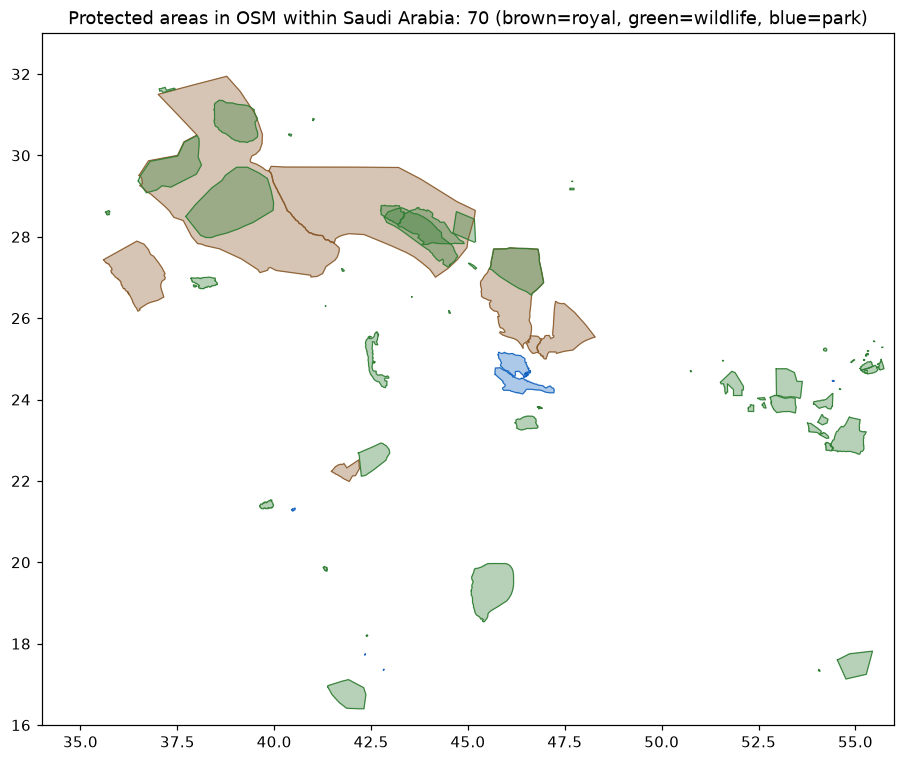
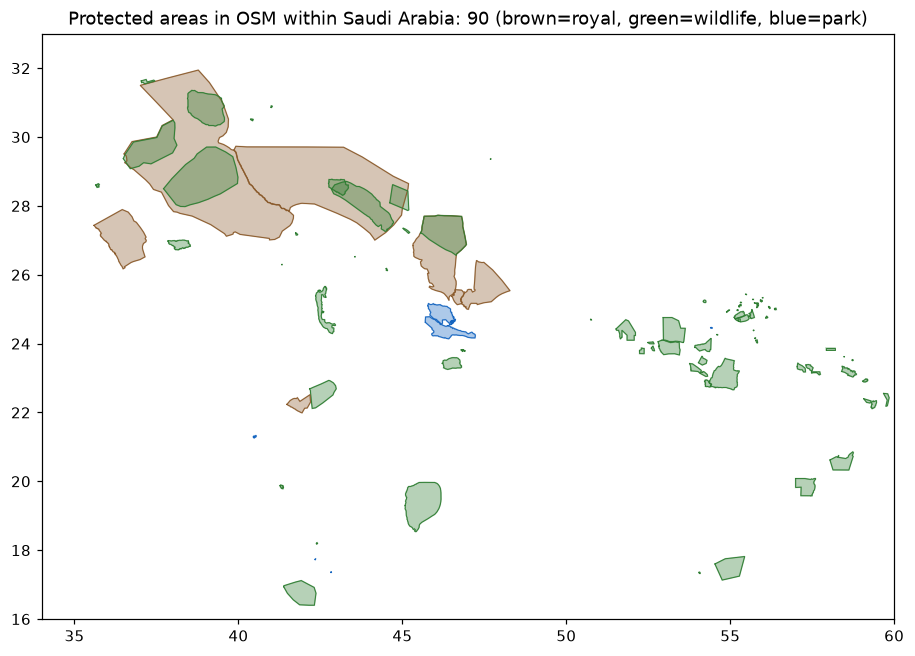
تحديث طبقة المحميات

diff --git a/ci-shots/reserves/summary.md b/ci-shots/reserves/summary.md
@@ -1,74 +1,94 @@
-# المحميات في OpenStreetMap داخل السعودية (70)
+# المحميات في OpenStreetMap داخل السعودية (90)
 
-| # | الاسم | النوع | المساحة كم² | الجهة | الموقع | OSM |
-|---|---|---|---|---|---|---|
-| 1 | محمية الملك سلمان الملكية | royal | 133476 |  | https://ksrnr.gov.sa | 1073421633 |
-| 2 | محمية الامام تركي بن عبدالله الملكية | royal | 93537 |  | https://itba.gov.sa/ | 1071799717 |
-| 3 | محمية الملك عبدالعزيز الملكية | royal | 28172 |  | https://www.karnr.gov.sa | 18421881 |
-| 4 | محمية الخنفه | wildlife | 27281 |  |  | 736530697 |
-| 5 | محمية الأمير محمد بن سلمان الملكية | royal | 16874 |  |  | 1074580774 |
-| 6 | محمية الطبيق | wildlife | 12609 |  |  | 736297710 |
-| 7 | محمية عروق بني معارض | wildlife | 12495 |  |  | 1329347800 |
-| 8 | محمية الصمان | wildlife | 12428 |  |  | 18421880 |
-| 9 | محمية التيسية | wildlife | 11711 |  |  | 770617528 |
-| 10 | محمية الإمام عبدالعزيز بن محمد الملكية | royal | 11066 |  | https://iarda.gov.sa | 1071109396 |
-| 11 | محمية حرة الحرة | wildlife | 9713 |  |  | 790722524 |
-| 12 | منطقة مغلقة بسياج | wildlife | 8856 |  |  | 1430523139 |
-| 13 | محمية المها العربي الطبيعية | wildlife | 5832 | Environment Agency Abu Dhabi (EAD) |  | 222980606 |
-| 14 | محمية جزر فرسان | wildlife | 5438 |  | https://www.ncw.gov.sa/ | 1447078946 |
-| 15 | محمية جبل سمحان | wildlife | 4564 | وزارة البيئة والشؤون المناخية |  | 8322166 |
-| 16 | محمية سجا وأم الرمث | wildlife | 4335 |  |  | 736283115 |
-| 17 | محمية مروح البحرية للمحيط الحيوي | wildlife | 4326 | Environment Agency Abu Dhabi (EAD) |  | 1327190396 |
-| 18 | محمية الإمام عبدالرحمن بن فيصل | park | 4204 |  | https://www.rcrc.gov.sa/projects/imam-abdulrahman-bin-faisal-reserve/ | 1573928927 |
-| 19 | محمية الأمير سلطان | wildlife | 3286 |  |  | 18649398 |
-| 20 | محمية طويق | park | 3281 |  | https://www.rcrc.gov.sa/projects/tuwaiq-reserve/ | 21847589 |
-| 21 | محمية نفود العريق | wildlife | 2500 |  | https://swa.gov.sa/ | 792775878 |
-| 22 | محمية الحبارى الطبيعية | wildlife | 2447 | Environment Agency Abu Dhabi (EAD) |  | 229650779 |
-| 23 | محمية الامام سعود الملكية - محازة الصيد | royal | 2175 |  |  | 755570401 |
-| 24 | محمية الياسات البحرية | wildlife | 2166 | Environment Agency Abu Dhabi (EAD) |  | 1334761778 |
-| 25 | محمية الشمال للصيد المستدام | wildlife | 2103 | هيئة تطوير محمية الإمام تركي بن عبدالله الملكية |  | 1161204032 |
-| 26 | محمية الوعول | wildlife | 1632 |  |  | 734000965 |
-| 27 | محمية شرعان الطبيعية | wildlife | 1391 |  |  | 1282434494 |
-| 28 | محمية الملك خالد الملكية | royal | 1152 |  | https://iarda.gov.sa/king-khalid-reserve/ | 1071114102 |
-| 29 | محمية الغضا الطبيعية | wildlife | 1066 | Environment Agency Abu Dhabi (EAD) |  | 448955839 |
-| 30 | محمية المرموم الصحراوية | wildlife | 928 | بلدية دبي |  | 9814219 |
-| 31 | حدود الحرم المكي | wildlife | 538 |  | https://www.haj.gov.sa/MakkahAndMadinah/Makkah | 19590020 |
-| 32 | محمية الرملة الطبيعية | wildlife | 531 | Environment Agency Abu Dhabi (EAD) |  | 1334678296 |
-| 33 | محمية البدعة الطبيعية | wildlife | 409 | Environment Agency Abu Dhabi (EAD) |  | 1336870032 |
-| 34 | محمية قصر السراب الطبيعية | wildlife | 294 | Environment Agency Abu Dhabi (EAD) |  | 1323859013 |
-| 35 | محمية الضاحك الطبيعية | wildlife | 256 | Royal Society for the Conservation of Nature |  | 981642427 |
-| 36 | محمية دبي الصحراوية | wildlife | 227 | بلدية دبي |  | 377687909 |
-| 37 | محمية يو الدبسا الطبيعية | wildlife | 214 | Environment Agency Abu Dhabi (EAD) |  | 438422612 |
-| 38 | محمية الدلفاوية الطبيعية | wildlife | 181 | Environment Agency Abu Dhabi (EAD) |  | 1334678300 |
-| 39 | محمية الجندلية | wildlife | 90 |  |  | 771015578 |
-| 40 | محمية برقا الصقور الطبيعية | wildlife | 81 | Environment Agency Abu Dhabi (EAD) |  | 453396784 |
-| 41 | محمية بدع هزاع الطبيعية | wildlife | 77 | Environment Agency Abu Dhabi (EAD) |  | 453396759 |
-| 42 | محميّة جبل شدا الأعلى | wildlife | 74 |  |  | 1188439115 |
-| 43 | محمية بجدة | wildlife | 74 |  |  | 1334266051 |
-| 44 | جزيرة صير بو نعير | wildlife | 52 |  |  | 395306787 |
-| 45 | KISR study research area | wildlife | 41 |  |  | 566335925 |
-| 46 | متنزه سيسد الوطني | park | 36 |  |  | 1092825897 |
-| 47 | الحجر (مدائن صالح) | wildlife | 30 |  |  | 849621507 |
-| 48 | محمية التمريات | wildlife | 27 |  |  | 1339807956 |
-| 49 | محمية ابو نمر | wildlife | 26 |  |  | 1444111392 |
-| 50 | منتزه الزلفي الوطني | wildlife | 16 |  |  | 798162643 |
-| 51 | محمية جبل علي البحرية | wildlife | 15 |  |  | 393189119 |
-| 52 | منتزه معيلة البري | wildlife | 13 |  |  | 16569301 |
-| 53 | Wadi Dawkah Frankincense Trees | wildlife | 12 |  |  | 1099473438 |
-| 54 | محمية ند الشبا الطبيعية | wildlife | 11 |  |  | 396043975 |
-| 55 | متنزه القرم البحري الوطني | park | 10 | Environment Agency Abu Dhabi |  | 1333243555 |
-| 56 | محمية جرف ريدة | wildlife | 9 |  |  | 1447089335 |
-| 57 | مركز وادي الصفا للحياة الفطرية | wildlife | 8 |  |  | 9387926 |
-| 58 | منتزة وثيلان الوطني | wildlife | 7 |  |  | 638758453 |
-| 59 | محمية الحفظ الخاصة | wildlife | 6 |  |  | 13415452 |
-| 60 | محمية رأس الخور للحياة البرية | wildlife | 5 |  |  | 393004319 |
-| 61 | محمية الوثبة للأراضي الرطبة | wildlife | 4 |  |  | 482077299 |
-| 62 | محمية الجيبان | wildlife | 4 |  |  | 929873488 |
-| 63 | هيجة رملان | park | 3 |  |  | 1188939502 |
-| 64 | Qatar Steel Company | wildlife | 2 |  |  | 260993358 |
-| 65 | محمية سيح المصموت | wildlife | 2 |  |  | 396043976 |
-| 66 | القرم الزوراء | wildlife | 2 |  |  | 13415572 |
-| 67 | منتزة البراري /هروب | park | 2 |  |  | 16253604 |
-| 68 | محمية الجهراء الطبيعية | wildlife | 2 |  |  | 1345201569 |
-| 69 | منتزة شقرا البري | wildlife | 1 |  |  | 1449573837 |
-| 70 | المنتزه البري - السليمي | wildlife | 1 |  |  | 1572391582 |
+| # | الاسم | النوع | الدولة | المساحة كم² | الجهة | الموقع | المصدر |
+|---|---|---|---|---|---|---|---|
+| 1 | محمية الملك سلمان الملكية | royal | SA | 133476 |  | https://ksrnr.gov.sa | https://www.openstreetmap.org/relation/536710816 |
+| 2 | محمية الامام تركي بن عبدالله الملكية | royal | SA | 93537 |  | https://itba.gov.sa/ | https://www.openstreetmap.org/relation/535899858 |
+| 3 | محمية الملك عبدالعزيز الملكية | royal | SA | 28172 |  | https://www.karnr.gov.sa | https://www.openstreetmap.org/relation/9210940 |
+| 4 | محمية الخنفه | wildlife | SA | 27281 |  |  | https://www.openstreetmap.org/relation/368265348 |
+| 5 | محمية الأمير محمد بن سلمان الملكية | royal | SA | 16874 |  |  | https://www.openstreetmap.org/way/537290387 |
+| 6 | محمية الطبيق | wildlife | SA | 12609 |  |  | https://www.openstreetmap.org/way/368148855 |
+| 7 | محمية عروق بني معارض | wildlife | SA | 12495 |  |  | https://www.openstreetmap.org/way/664673900 |
+| 8 | محمية الصمان | wildlife | SA | 12428 |  |  | https://www.openstreetmap.org/way/9210940 |
+| 9 | محمية التيسية | wildlife | SA | 11711 |  |  | https://www.openstreetmap.org/way/385308764 |
+| 10 | محمية الإمام عبدالعزيز بن محمد الملكية | royal | SA | 11066 |  | https://iarda.gov.sa | https://www.openstreetmap.org/way/535554698 |
+| 11 | محمية حرة الحرة | wildlife | SA | 9713 |  |  | https://www.openstreetmap.org/way/395361262 |
+| 12 | محمية المها العربي الطبيعية | wildlife | AE | 5832 | Environment Agency Abu Dhabi (EAD) |  | https://www.openstreetmap.org/way/111490303 |
+| 13 | محمية جزر فرسان | wildlife | SA | 5438 |  | https://www.ncw.gov.sa/ | https://www.openstreetmap.org/way/723539473 |
+| 14 | محمية جبل سمحان | wildlife | OM | 4564 | وزارة البيئة والشؤون المناخية |  | https://www.openstreetmap.org/way/4161083 |
+| 15 | محمية سجا وأم الرمث | wildlife | SA | 4335 |  |  | https://www.openstreetmap.org/relation/368141557 |
+| 16 | محمية مروح البحرية للمحيط الحيوي | wildlife | AE | 4326 | Environment Agency Abu Dhabi (EAD) |  | https://www.openstreetmap.org/way/663595198 |
+| 17 | محمية الإمام عبدالرحمن بن فيصل | park | SA | 4204 |  | https://www.rcrc.gov.sa/projects/imam-abdulrahman-bin-faisal-reserve/ | https://www.openstreetmap.org/relation/786964463 |
+| 18 | محمية الأمير سلطان | wildlife | SA | 3286 |  |  | https://www.openstreetmap.org/way/9324699 |
+| 19 | محمية طويق | park | SA | 3281 |  | https://www.rcrc.gov.sa/projects/tuwaiq-reserve/ | https://www.openstreetmap.org/relation/10923794 |
+| 20 | محمية المها العربي | wildlife | OM | 2639 |  |  | https://www.openstreetmap.org/relation/1737381 |
+| 21 | محمية الأراضي الرطبة بمحافظة الوسطى | wildlife | OM | 2519 | وزارة البيئة والشؤون المناخية |  | https://www.openstreetmap.org/relation/716701987 |
+| 22 | محمية نفود العريق | wildlife | SA | 2500 |  | https://swa.gov.sa/ | https://www.openstreetmap.org/way/396387939 |
+| 23 | محمية الحبارى الطبيعية | wildlife | AE | 2447 | Environment Agency Abu Dhabi (EAD) |  | https://www.openstreetmap.org/relation/114825389 |
+| 24 | محمية الامام سعود الملكية - محازة الصيد | royal | SA | 2175 |  |  | https://www.openstreetmap.org/relation/377785200 |
+| 25 | محمية الياسات البحرية | wildlife | AE | 2166 | Environment Agency Abu Dhabi (EAD) |  | https://www.openstreetmap.org/way/667380889 |
+| 26 | محمية الشمال للصيد المستدام | wildlife | SA | 2103 | هيئة تطوير محمية الإمام تركي بن عبدالله الملكية |  | https://www.openstreetmap.org/way/580602016 |
+| 27 | محمية الوعول | wildlife | SA | 1632 |  |  | https://www.openstreetmap.org/relation/367000482 |
+| 28 | محمية شرعان الطبيعية | wildlife | SA | 1391 |  |  | https://www.openstreetmap.org/way/641217247 |
+| 29 | محمية الملك خالد الملكية | royal | SA | 1152 |  | https://iarda.gov.sa/king-khalid-reserve/ | https://www.openstreetmap.org/way/535557051 |
+| 30 | محمية الغضا الطبيعية | wildlife | AE | 1066 | Environment Agency Abu Dhabi (EAD) |  | https://www.openstreetmap.org/relation/224477919 |
+| 31 | محمية المرموم الصحراوية | wildlife | AE | 928 | بلدية دبي |  | https://www.openstreetmap.org/relation/4907109 |
+| 32 | محمية السرين الطبيعية | wildlife | OM | 706 | مكتب حفظ البيئة |  | https://www.openstreetmap.org/relation/100597326 |
+| 33 | محمية الرملة الطبيعية | wildlife | AE | 531 | Environment Agency Abu Dhabi (EAD) |  | https://www.openstreetmap.org/way/667339148 |
+| 34 | محمية البدعة الطبيعية | wildlife | AE | 409 | Environment Agency Abu Dhabi (EAD) |  | https://www.openstreetmap.org/way/668435016 |
+| 35 | محمية الحجر الغربي لأضواء النجوم | wildlife | OM | 378 | وزارة البيئة والشؤون المناخية |  | https://www.openstreetmap.org/relation/716758747 |
+| 36 | محمية قصر السراب الطبيعية | wildlife | AE | 294 | Environment Agency Abu Dhabi (EAD) |  | https://www.openstreetmap.org/relation/661929506 |
+| 37 | محمية السلاحف | wildlife | OM | 288 |  |  | https://www.openstreetmap.org/relation/4152259 |
+| 38 | محمية جبل قهوان الطبيعية | wildlife | OM | 281 | وزارة البيئة والشؤون المناخية |  | https://www.openstreetmap.org/way/716757804 |
+| 39 | محمية الضاحك الطبيعية | wildlife |  | 256 | Royal Society for the Conservation of Nature |  | https://www.openstreetmap.org/relation/490821213 |
+| 40 | محمية الرستاق للحياة البرية | wildlife | OM | 248 | وزارة البيئة والشؤون المناخية |  | https://www.openstreetmap.org/way/716758085 |
+| 41 | محمية دبي الصحراوية | wildlife | AE | 227 | بلدية دبي |  | https://www.openstreetmap.org/relation/188843954 |
+| 42 | محمية يو الدبسا الطبيعية | wildlife | AE | 214 | Environment Agency Abu Dhabi (EAD) |  | https://www.openstreetmap.org/way/219211306 |
+| 43 | محمية جزر الديمانيات الطبيعية | wildlife | OM | 210 | وزارة البيئة والشؤون المناخية |  | https://www.openstreetmap.org/way/716701649 |
+| 44 | محمية الدلفاوية الطبيعية | wildlife | AE | 181 | Environment Agency Abu Dhabi (EAD) |  | https://www.openstreetmap.org/way/667339150 |
+| 45 | حديقة السليل الطبيعية | wildlife | OM | 143 | وزارة البيئة والشؤون المناخية |  | https://www.openstreetmap.org/relation/716757803 |
+| 46 | محمية الجبل الأخضر للمناظر الطبيعية | wildlife | OM | 119 | وزارة البيئة والشؤون المناخية |  | https://www.openstreetmap.org/way/716702343 |
+| 47 | محمية رأس الشجر الطبيعية | wildlife | OM | 92 | مكتب حفظ البيئة |  | https://www.openstreetmap.org/relation/716758402 |
+| 48 | محمية الجندلية | wildlife | SA | 90 |  |  | https://www.openstreetmap.org/way/385507789 |
+| 49 | محمية برقا الصقور الطبيعية | wildlife | AE | 81 | Environment Agency Abu Dhabi (EAD) |  | https://www.openstreetmap.org/way/226698392 |
+| 50 | محمية بدع هزاع الطبيعية | wildlife | AE | 77 | Environment Agency Abu Dhabi (EAD) |  | https://www.openstreetmap.org/relation/226698379 |
+| 51 | محميّة جبل شدا الأعلى | wildlife | SA | 74 |  |  | https://www.openstreetmap.org/relation/594219557 |
+| 52 | محمية بجدة | wildlife | SA | 74 |  |  | https://www.openstreetmap.org/relation/667133025 |
+| 53 | جزيرة صير بو نعير | wildlife | AE | 52 |  |  | https://www.openstreetmap.org/relation/197653393 |
+| 54 | متنزه سيسد الوطني | park | SA | 36 |  |  | https://www.openstreetmap.org/relation/546412948 |
+| 55 | الموقع الأثري لجبل حفيت | wildlife | AE | 35 |  |  | https://www.openstreetmap.org/relation/296983326 |
+| 56 | محمية التمريات | wildlife | SA | 27 |  |  | https://www.openstreetmap.org/way/669903978 |
+| 57 | محمية جبل الفاية | wildlife | AE | 26 |  |  | https://www.openstreetmap.org/relation/197674597 |
+| 58 | محمية ابو نمر | wildlife | SA | 26 |  |  | https://www.openstreetmap.org/way/722055696 |
+| 59 | محمية حتا | wildlife | AE | 21 |  |  | https://www.openstreetmap.org/way/231369382 |
+| 60 | محمية القرم | wildlife | AE | 20 |  |  | https://www.openstreetmap.org/way/197651688 |
+| 61 | محمية البرّدي | wildlife | AE | 18 |  |  | https://www.openstreetmap.org/way/115707108 |
+| 62 | محمية وادي الحلو الطبيعية | wildlife | AE | 17 |  |  | https://www.openstreetmap.org/relation/197676099 |
+| 63 | منتزه الزلفي الوطني | wildlife | SA | 16 |  |  | https://www.openstreetmap.org/relation/399081321 |
+| 64 | محمية جبل علي البحرية | wildlife | AE | 15 |  |  | https://www.openstreetmap.org/relation/196594559 |
+| 65 | منتزه معيلة البري | wildlife | SA | 13 |  |  | https://www.openstreetmap.org/relation/8284650 |
+| 66 | Wadi Dawkah Frankincense Trees | wildlife | OM | 12 |  |  | https://www.openstreetmap.org/way/549736719 |
+| 67 | محمية ند الشبا الطبيعية | wildlife | AE | 11 |  |  | https://www.openstreetmap.org/relation/198021987 |
+| 68 | متنزه القرم البحري الوطني | park | AE | 10 | Environment Agency Abu Dhabi |  | https://www.openstreetmap.org/relation/666621777 |
+| 69 | محمية جبل مليحة | wildlife | AE | 9 |  |  | https://www.openstreetmap.org/way/197674597 |
+| 70 | محمية جرف ريدة | wildlife | SA | 9 |  |  | https://www.openstreetmap.org/relation/723544667 |
+| 71 | محمية حزام غابات المنتثر | wildlife | AE | 8 |  | https://www.moccae.gov.ae/ar/open-data/ecotourism/al-mentether-protected-areas.aspx | https://www.openstreetmap.org/relation/197669036 |
+| 72 | مركز وادي الصفا للحياة الفطرية | wildlife | AE | 8 |  |  | https://www.openstreetmap.org/way/4693963 |
+| 73 | Sharjah Safari Park | wildlife | AE | 8 |  |  | https://www.openstreetmap.org/relation/636287263 |
+| 74 | محمية بندر الخيران | wildlife | OM | 7 |  |  | https://www.openstreetmap.org/relation/183696422 |
+| 75 | منتزة وثيلان الوطني | wildlife | SA | 7 |  |  | https://www.openstreetmap.org/relation/319379226 |
+| 76 | محمية الحفظ الخاصة | wildlife | AE | 6 |  |  | https://www.openstreetmap.org/way/6707726 |
+| 77 | محمية رأس الخور للحياة البرية | wildlife | AE | 5 |  |  | https://www.openstreetmap.org/relation/196502159 |
+| 78 | محمية الوثبة للأراضي الرطبة | wildlife | AE | 4 |  |  | https://www.openstreetmap.org/relation/241038649 |
+| 79 | محمية الجيبان | wildlife | SA | 4 |  |  | https://www.openstreetmap.org/way/464936744 |
+| 80 | مقابر جبل حفيت الشمالية | wildlife | AE | 3 |  |  | https://www.openstreetmap.org/relation/296984685 |
+| 81 | هيجة رملان | park | SA | 3 |  |  | https://www.openstreetmap.org/way/594469751 |
+| 82 | محمية سيح المصموت | wildlife | AE | 2 |  |  | https://www.openstreetmap.org/way/198021988 |
+| 83 | بدع بنت سعود | wildlife | AE | 2 |  |  | https://www.openstreetmap.org/relation/296993429 |
+| 84 | القرم الزوراء | wildlife | AE | 2 |  |  | https://www.openstreetmap.org/way/6707786 |
+| 85 | منتزة البراري /هروب | park | SA | 2 |  |  | https://www.openstreetmap.org/way/8126802 |
+| 86 | محمية الجهراء الطبيعية | wildlife | KW | 2 |  |  | https://www.openstreetmap.org/relation/672600784 |
+| 87 | محمية القرم الطبيعية | wildlife | OM | 1 | وزارة البيئة والشؤون المناخية |  | https://www.openstreetmap.org/way/17996505 |
+| 88 | وادي النسيم | wildlife | AE | 1 |  |  | https://www.openstreetmap.org/relation/197674988 |
+| 89 | منتزة شقرا البري | wildlife | SA | 1 |  |  | https://www.openstreetmap.org/relation/724786918 |
+| 90 | المنتزه البري - السليمي | wildlife | SA | 1 |  |  | https://www.openstreetmap.org/way/786195791 |
